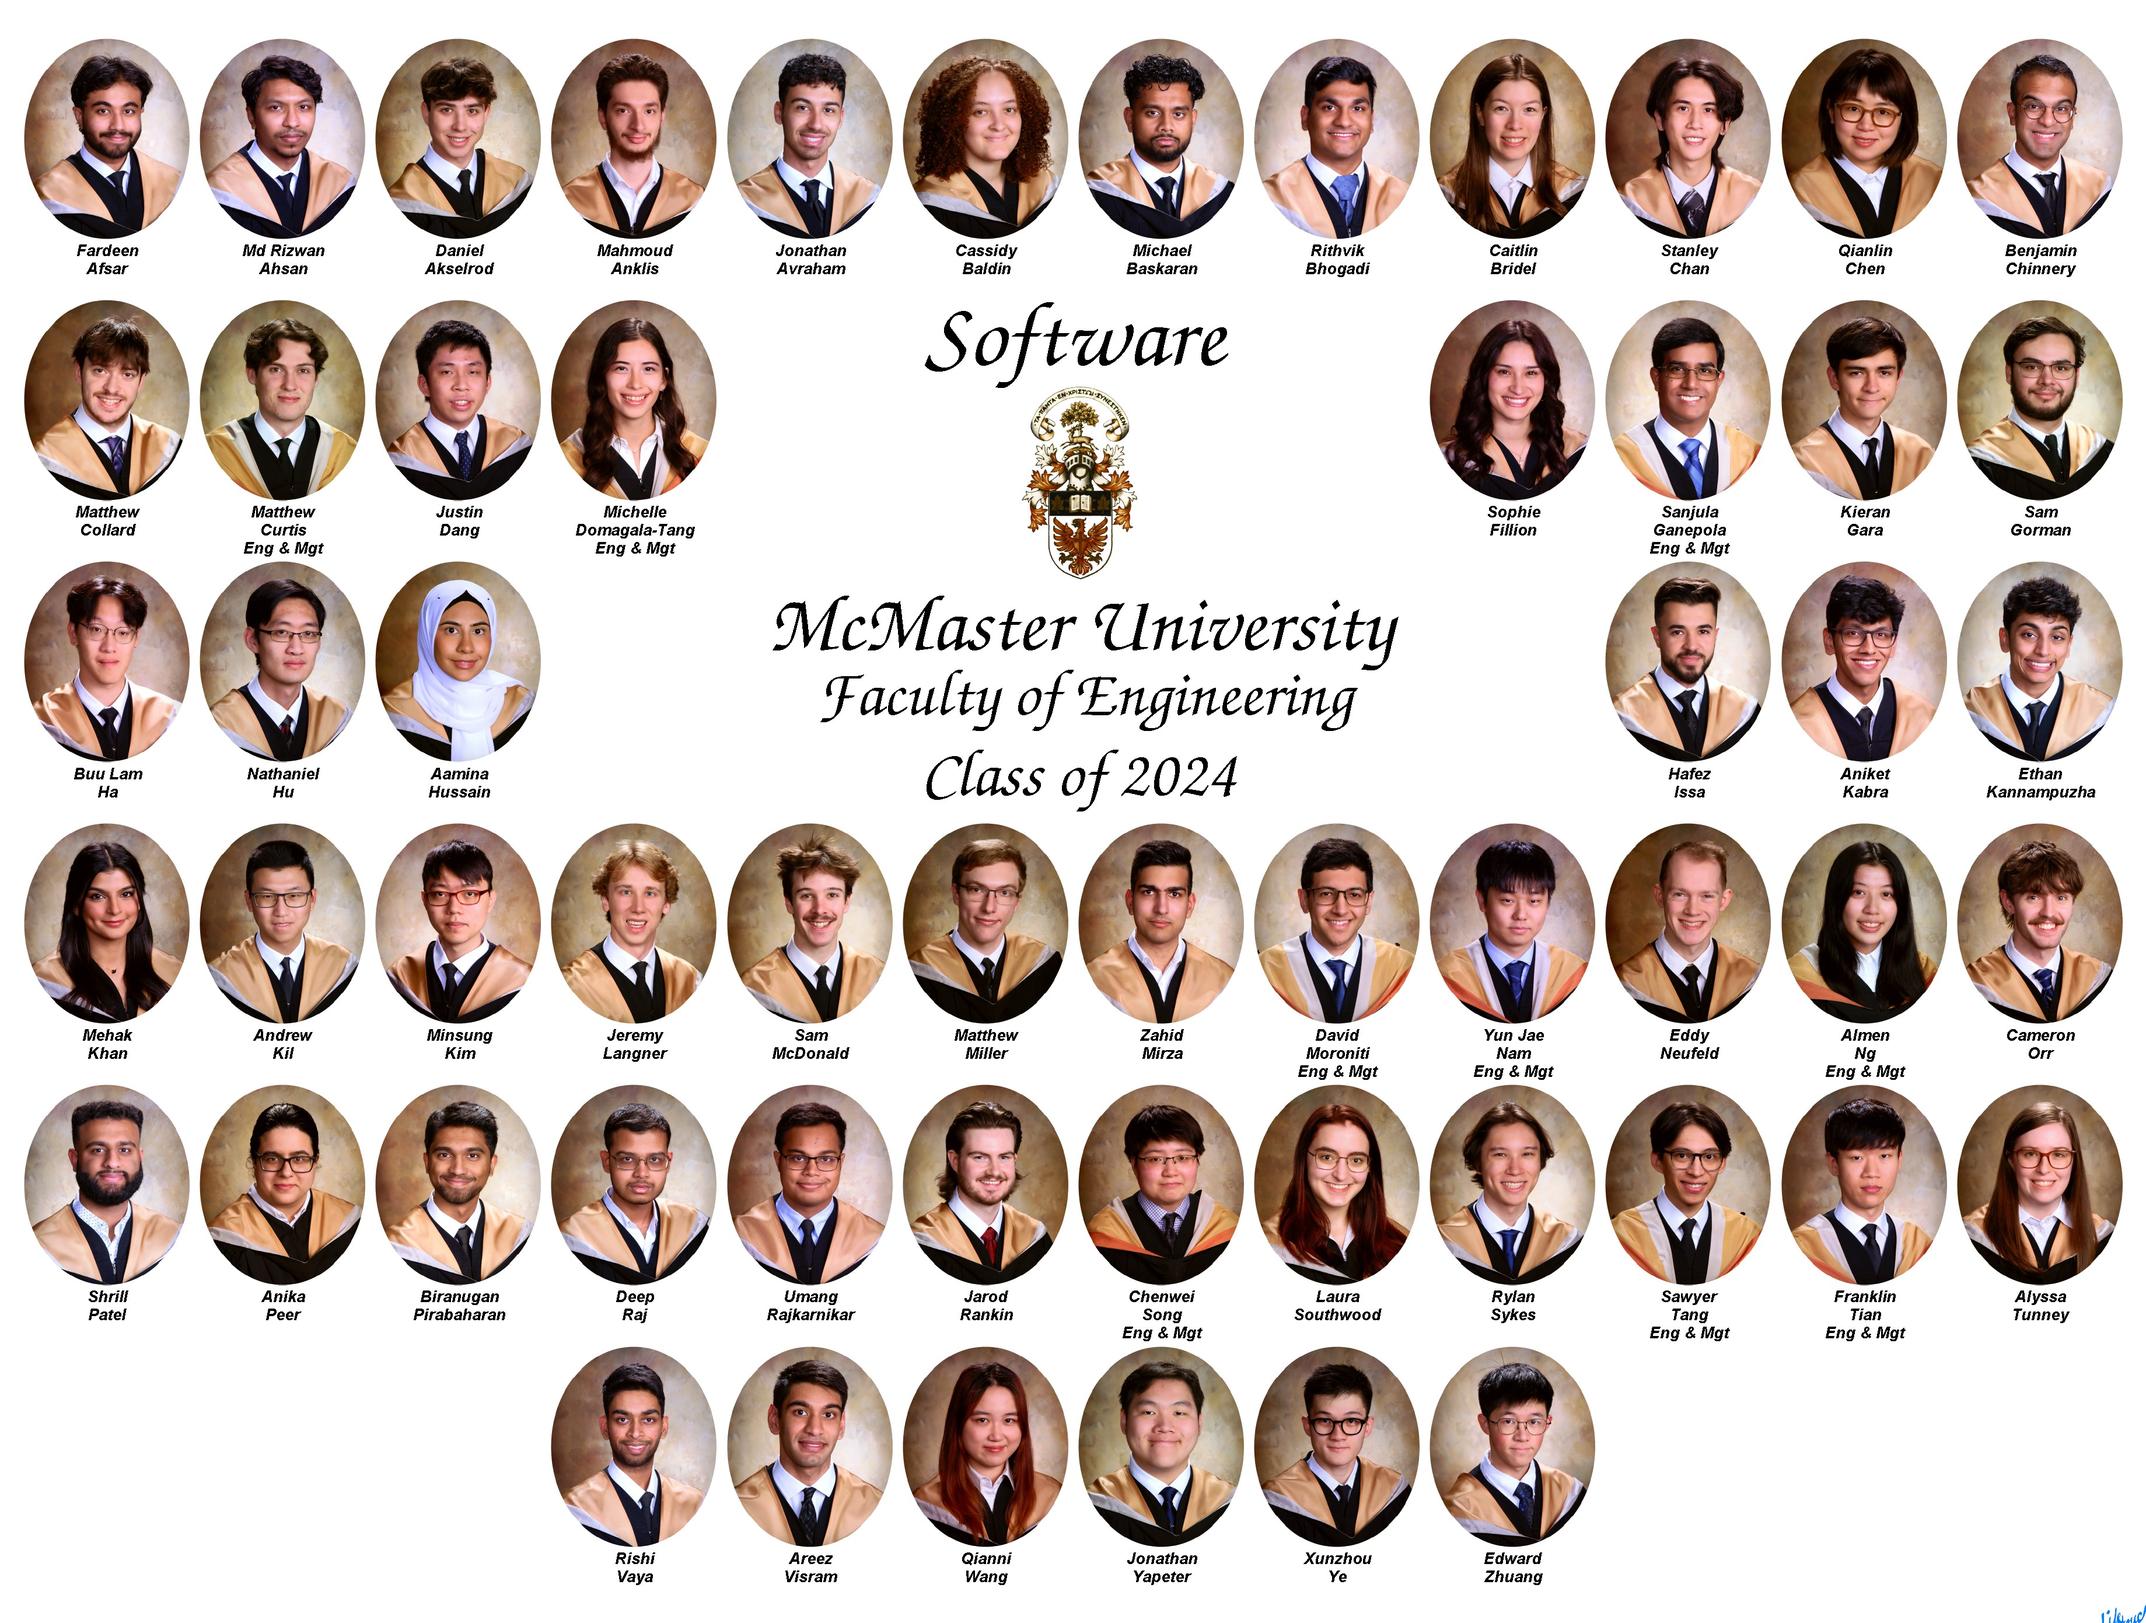
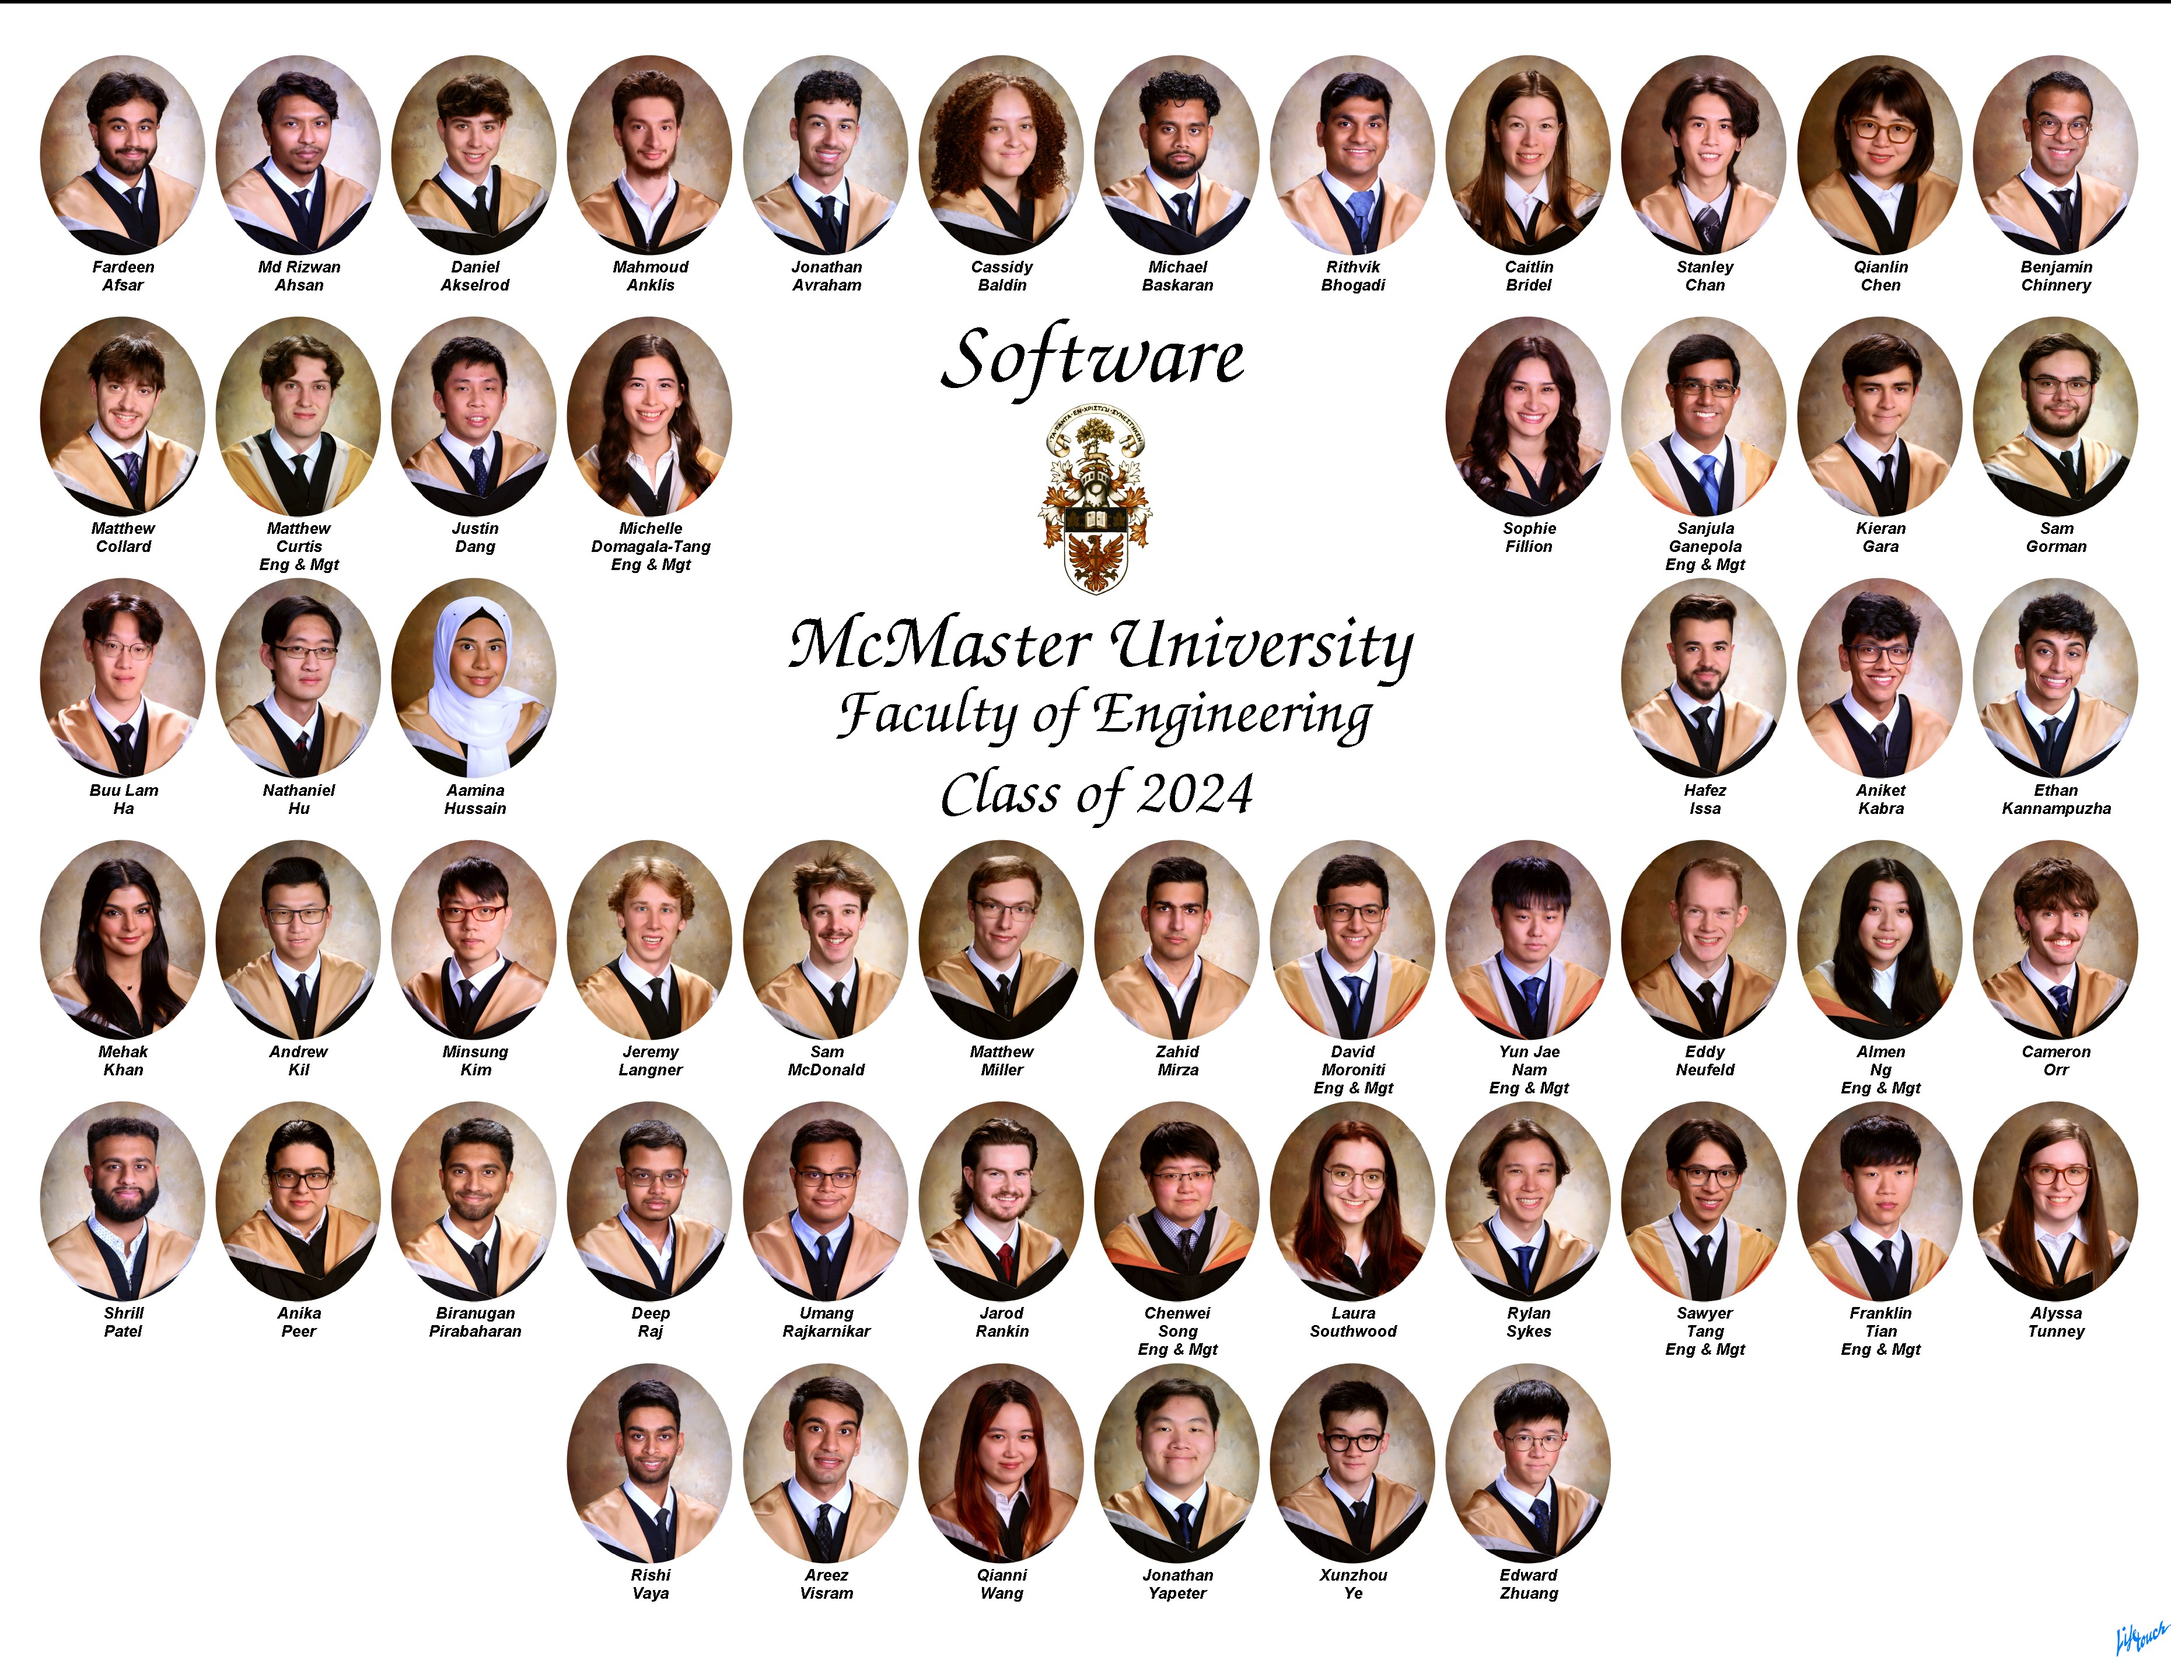
integrate image rescaling

diff --git a/server/rest/controllers/composite.controller.js b/server/rest/controllers/composite.controller.js
@@ -1,7 +1,5 @@
 const compositeService = require("../services/composite.service");
-const studentService = require("../services/students.service")
 const { spawn } = require("child_process");
-const fs = require("fs");
 
 async function downloadImage(req, res, bucketname){
     try {
@@ -43,9 +41,9 @@ exports.getImageByYearAndProgramPreview = async (req, res) => {
 
 exports.uploadImageByYearAndProgram = async (req, res) => {
     try {
-        const { year, program } = req.params;
+        const year = req.body.year;
+        const program = req.body.program;
 
-        console.log("Request Params:", { year, program });
         console.log("Request Body:", req.body);
         console.log("Request File:", req.file); // This should not be undefined
 
@@ -53,11 +51,10 @@ exports.uploadImageByYearAndProgram = async (req, res) => {
             return res.status(400).json({ message: "No file uploaded" });
         }
 
-        const bucketname = "digital-composite-bucket";
+        let bucketname = "digital-composite-bucket";
+        await compositeService.saveImage({ bucketname, year, program, file: req.file });
 
-        const uploadResult = await compositeService.saveImage({ bucketname, year, program, file: req.file });
-
-        const parsedData = await new Promise( (resolve, reject) => {
+        const ocrParsedData = await new Promise( (resolve, reject) => {
             const pythonProcess = spawn("python", ["scripts/ovalNameDetection.py", `${year}-${program}`]);
 
             let dataBuffer = "";
@@ -83,13 +80,43 @@ exports.uploadImageByYearAndProgram = async (req, res) => {
                 }                
             });
         })
-        
-        console.log(parsedData)
-        console.log(typeof(parsedData))
-        
-        // await studentService.addBatch({year, program, parsedData})
+
+        const scalingImage = await new Promise( (resolve, reject) => {
+            const pythonProcess = spawn("python", ["scripts/scaleComposite.py"]);
+
+            let resizedImageBuffer = Buffer.alloc(0);
     
-        return res.status(200).json({ message: "Image uploaded successfully", data: parsedData });
+            pythonProcess.stdin.write(req.file.buffer);
+            pythonProcess.stdin.end();
+    
+            pythonProcess.stdout.on("data", (data) => {
+                resizedImageBuffer = Buffer.concat([resizedImageBuffer, data]);
+            });
+    
+            pythonProcess.stderr.on("data", (data) => {
+                console.error(`Python Error: ${data}`);
+            });
+        
+            pythonProcess.on("close", (code) => {
+                try{
+                    console.log(resizedImageBuffer)
+                    console.log(`Python script exited with code ${code}`);
+                    resolve(resizedImageBuffer)
+                } catch (error) {
+                    reject(error)
+                }                
+            });
+        })
+
+        const previewFile = {
+            mimetype: req.file.mimetype,
+            buffer: Buffer.isBuffer(scalingImage) ? scalingImage : Buffer.from(scalingImage)
+        }
+
+        bucketname = "digital-composite-preview";
+        await compositeService.saveImage({ bucketname, year, program, file: previewFile });
+                    
+        return res.status(200).json({ message: "Image uploaded successfully", data: ocrParsedData });
 
     } catch (error) {
         return res.status(500).json({ error: error.message })

diff --git a/server/rest/routes/composite.routes.js b/server/rest/routes/composite.routes.js
@@ -9,7 +9,7 @@ router.get("/getCompositePreview", compositeController.getImageByYearAndProgramP
 
 // PUT /year/program  (uploading image)
 router.post(
-  "/uploadComposite/:year/:program",
+  "/uploadComposite",
   upload.single("file"), // "file" is the name of the form field 
   compositeController.uploadImageByYearAndProgram
 );

diff --git a/server/db/dao/s3_dao.js b/server/db/dao/s3_dao.js
@@ -28,7 +28,7 @@ class S3DAO {
     async uploadFile(bucketname, objKey, file) {
         
         this.s3 = await s3_client(this.roleArn, this.region);
-
+        
         try {
             const params = {
                 Bucket: bucketname,

diff --git a/server/scripts/scaleComposite.py b/server/scripts/scaleComposite.py
@@ -1,0 +1,22 @@
+from PIL import Image
+import sys
+import numpy as np
+from io import BytesIO
+
+def main(image_data):
+    img = Image.open(BytesIO(image_data))
+
+    # Resize the image to 50% of its original size
+    width, height = img.size
+    new_width = int(width * 0.5)
+    new_height = int(height * 0.5)
+    resized_img = img.resize((new_width, new_height))
+
+    img_byte_array = BytesIO()
+    resized_img.save(img_byte_array, format="JPEG")  # Ensure format is correct
+    return img_byte_array.getvalue()  # Return byte data   
+
+if __name__ == "__main__":
+    image_data = sys.stdin.buffer.read()
+    image_array = main(image_data)
+    sys.stdout.buffer.write(image_array)
